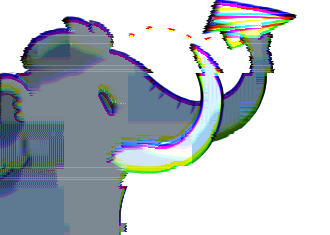
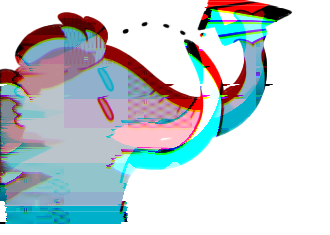
Set glitchy elephant friend variant in initial state.  #294.
Also lay some groundwork needed to interactively change the
glitchfriend.

The codebase uses "elefriend" because it's shorter and didn't require me
to realign the actions in actions/compose.js.  Same idea, though.

diff --git a/app/javascript/flavours/glitch/features/drawer/index.js b/app/javascript/flavours/glitch/features/drawer/index.js
@@ -28,6 +28,7 @@ import { wrap } from 'flavours/glitch/util/redux_helpers';
 const mapStateToProps = state => ({
   account: state.getIn(['accounts', me]),
   columns: state.getIn(['settings', 'columns']),
+  elefriend: state.getIn(['compose', 'elefriend']),
   results: state.getIn(['search', 'results']),
   searchHidden: state.getIn(['search', 'hidden']),
   searchValue: state.getIn(['search', 'value']),
@@ -56,6 +57,7 @@ class Drawer extends React.Component {
     const {
       account,
       columns,
+      elefriend,
       intl,
       multiColumn,
       onChange,
@@ -69,10 +71,8 @@ class Drawer extends React.Component {
       submitted,
     } = this.props;
 
-    let choices = ['mbstobon-bg-1', 'mbstobon-bg-2', 'mbstobon-bg-3'];
-    let glitchyFriendDecision = choices[Math.floor(Math.random() * choices.length)];
-    let drawerAttrs = {
-      className: classNames('contents', glitchyFriendDecision)
+    let elefriendAttrs = {
+      className: classNames('mastodon', 'mbstobon-' + elefriend),
     };
 
     //  The result.
@@ -98,7 +98,7 @@ class Drawer extends React.Component {
           <DrawerAccount account={account} />
           <div className='drawer__inner'>
             <Composer />
-            {multiColumn && <div className="mastodon mbstobon-bg-1" />}
+            {multiColumn && <div {...elefriendAttrs} />}
           </div>
           <DrawerResults
             results={results}
@@ -120,6 +120,7 @@ Drawer.propTypes = {
   account: ImmutablePropTypes.map,
   columns: ImmutablePropTypes.list,
   results: ImmutablePropTypes.map,
+  elefriend: PropTypes.number,
   searchHidden: PropTypes.bool,
   searchValue: PropTypes.string,
   submitted: PropTypes.bool,

diff --git a/app/javascript/flavours/glitch/reducers/compose.js b/app/javascript/flavours/glitch/reducers/compose.js
@@ -2,6 +2,7 @@ import {
   COMPOSE_MOUNT,
   COMPOSE_UNMOUNT,
   COMPOSE_CHANGE,
+  COMPOSE_CYCLE_ELEFRIEND,
   COMPOSE_REPLY,
   COMPOSE_REPLY_CANCEL,
   COMPOSE_MENTION,
@@ -35,6 +36,8 @@ import uuid from 'flavours/glitch/util/uuid';
 import { me } from 'flavours/glitch/util/initial_state';
 import { overwrite } from 'flavours/glitch/util/js_helpers';
 
+const totalElefriends = 3;
+
 const initialState = ImmutableMap({
   mounted: false,
   advanced_options: ImmutableMap({
@@ -42,6 +45,7 @@ const initialState = ImmutableMap({
     threaded_mode: false,
   }),
   sensitive: false,
+  elefriend: Math.floor(Math.random() * totalElefriends),
   spoiler: false,
   spoiler_text: '',
   privacy: null,
@@ -259,6 +263,9 @@ export default function compose(state = initialState, action) {
     return state
       .set('text', action.text)
       .set('idempotencyKey', uuid());
+  case COMPOSE_CYCLE_ELEFRIEND:
+    return state
+      .set('elefriend', (state.get('elefriend') + 1) % totalElefriends);
   case COMPOSE_REPLY:
     return state.withMutations(map => {
       map.set('in_reply_to', action.status.get('id'));

diff --git a/app/javascript/flavours/glitch/actions/compose.js b/app/javascript/flavours/glitch/actions/compose.js
@@ -12,6 +12,7 @@ import {
 } from './timelines';
 
 export const COMPOSE_CHANGE          = 'COMPOSE_CHANGE';
+export const COMPOSE_CYCLE_ELEFRIEND = 'COMPOSE_CYCLE_ELEFRIEND';
 export const COMPOSE_SUBMIT_REQUEST  = 'COMPOSE_SUBMIT_REQUEST';
 export const COMPOSE_SUBMIT_SUCCESS  = 'COMPOSE_SUBMIT_SUCCESS';
 export const COMPOSE_SUBMIT_FAIL     = 'COMPOSE_SUBMIT_FAIL';
@@ -51,6 +52,12 @@ export function changeCompose(text) {
   return {
     type: COMPOSE_CHANGE,
     text: text,
+  };
+};
+
+export function cycleElefriendCompose() {
+  return {
+    type: COMPOSE_CYCLE_ELEFRIEND,
   };
 };
 

diff --git a/app/javascript/flavours/glitch/styles/components/drawer.scss b/app/javascript/flavours/glitch/styles/components/drawer.scss
@@ -66,8 +66,8 @@
     .mastodon {
       flex: 1;
 
-      @for $i from 1 through 3 {
-        &.mbstobon-bg-#{$i} {
+      @for $i from 0 through 2 {
+        &.mbstobon-#{$i} {
           background: url("~flavours/glitch/images/mbstobon-ui-#{$i}.png") no-repeat left bottom / contain;
         }
       }
